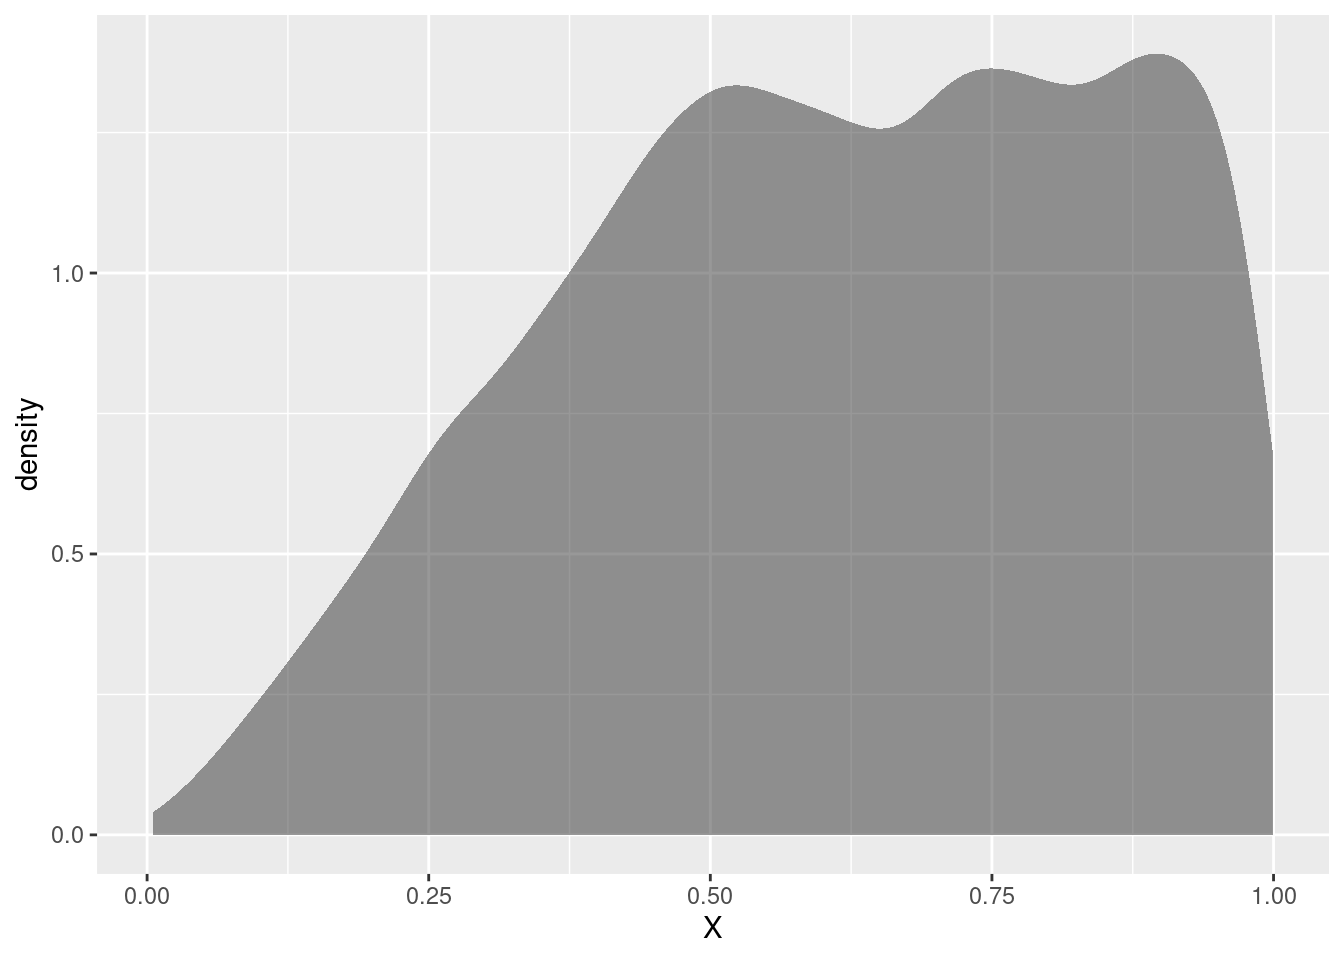
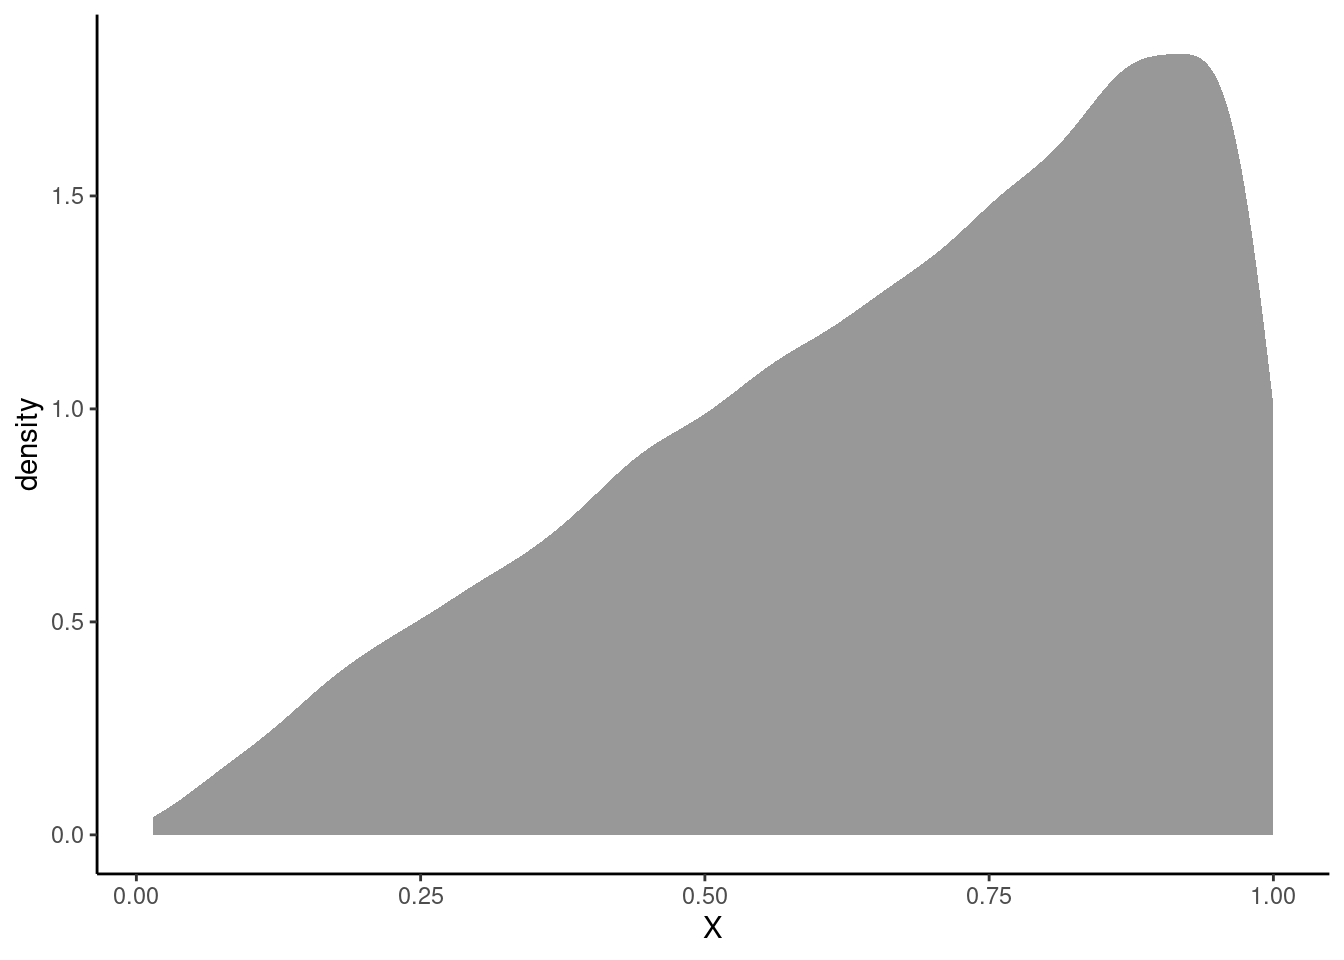
Fixed simulations for continuous RVs and transformations chapter by sampling once from (0,1) and once from (0,2), so that we get values up to the max of the pdf.

diff --git a/docs/Continuous-Random-Variables.html b/docs/Continuous-Random-Variables.html
@@ -641,7 +641,7 @@ Follow the signs
 <p>Like with discrete random variables, we can get an estimate of the pdf via simulation. However, simulating continuous random variables take a little more work.</p>
 <p>Let’s start by generating random samples from <span class="math inline">\(X\)</span>. We can do this using a method called rejection sampling. Rejection sampling involves generating candidate points from a proposal distribution (usually a uniform distribution, with values between 0 and 1) and accepting them with a certain probability that ensures the desired distribution. To determine the probability of rejection, we essentially check whether a second random number <span class="math inline">\(u\)</span> is less than or equal to a specific function value. For example, if we want values where <span class="math inline">\(y = 2x\)</span>, we’ll check whether <span class="math inline">\(u\leq 2x\)</span>. An alternative method for this simulation uses the inverse transform method, which requires deriving the cdf.<a href="#fn2" class="footnote-ref" id="fnref2" role="doc-noteref"><sup>2</sup></a> Because we have de-emphasized the cdf in this book, we’ll focus on the rejection sampling method.</p>
 <div class="cell">
-<div class="sourceCode cell-code" id="cb9"><pre class="sourceCode r code-with-copy"><code class="sourceCode r"><span id="cb9-1"><a href="#cb9-1" aria-hidden="true" tabindex="-1"></a><span class="fu">set.seed</span>(<span class="dv">1111</span>)</span>
+<div class="sourceCode cell-code" id="cb9"><pre class="sourceCode r code-with-copy"><code class="sourceCode r"><span id="cb9-1"><a href="#cb9-1" aria-hidden="true" tabindex="-1"></a><span class="fu">set.seed</span>(<span class="dv">809</span>)</span>
 <span id="cb9-2"><a href="#cb9-2" aria-hidden="true" tabindex="-1"></a></span>
 <span id="cb9-3"><a href="#cb9-3" aria-hidden="true" tabindex="-1"></a>num_sim <span class="ot">&lt;-</span> <span class="dv">10000</span></span>
 <span id="cb9-4"><a href="#cb9-4" aria-hidden="true" tabindex="-1"></a></span>
@@ -649,25 +649,29 @@ Follow the signs
 <span id="cb9-6"><a href="#cb9-6" aria-hidden="true" tabindex="-1"></a><span class="co">#   and uniform random numbers for acceptance</span></span>
 <span id="cb9-7"><a href="#cb9-7" aria-hidden="true" tabindex="-1"></a><span class="co"># generate more points than needed (10000*2) to ensure </span></span>
 <span id="cb9-8"><a href="#cb9-8" aria-hidden="true" tabindex="-1"></a><span class="co">#   enough accepted samples</span></span>
-<span id="cb9-9"><a href="#cb9-9" aria-hidden="true" tabindex="-1"></a>candidates <span class="ot">&lt;-</span> <span class="fu">runif</span>(num_sim<span class="sc">*</span><span class="dv">5</span>, <span class="dv">0</span>, <span class="dv">1</span>)</span>
-<span id="cb9-10"><a href="#cb9-10" aria-hidden="true" tabindex="-1"></a>u <span class="ot">&lt;-</span> <span class="fu">runif</span>(num_sim<span class="sc">*</span><span class="dv">5</span>, <span class="dv">0</span>, <span class="dv">1</span>)</span>
-<span id="cb9-11"><a href="#cb9-11" aria-hidden="true" tabindex="-1"></a></span>
-<span id="cb9-12"><a href="#cb9-12" aria-hidden="true" tabindex="-1"></a><span class="co"># create a tibble for candidates and acceptance probabilities</span></span>
-<span id="cb9-13"><a href="#cb9-13" aria-hidden="true" tabindex="-1"></a>df <span class="ot">&lt;-</span> <span class="fu">tibble</span>(<span class="at">candidate =</span> candidates, <span class="at">u =</span> u)</span>
+<span id="cb9-9"><a href="#cb9-9" aria-hidden="true" tabindex="-1"></a><span class="co"># We select a value on the range for x and then</span></span>
+<span id="cb9-10"><a href="#cb9-10" aria-hidden="true" tabindex="-1"></a><span class="co"># select another value from 0 to the max of the</span></span>
+<span id="cb9-11"><a href="#cb9-11" aria-hidden="true" tabindex="-1"></a><span class="co"># pdf </span></span>
+<span id="cb9-12"><a href="#cb9-12" aria-hidden="true" tabindex="-1"></a>candidates <span class="ot">&lt;-</span> <span class="fu">runif</span>(num_sim<span class="sc">*</span><span class="dv">2</span>)</span>
+<span id="cb9-13"><a href="#cb9-13" aria-hidden="true" tabindex="-1"></a>u <span class="ot">&lt;-</span> <span class="fu">runif</span>(num_sim<span class="sc">*</span><span class="dv">2</span>,<span class="at">max=</span><span class="dv">2</span>)</span>
 <span id="cb9-14"><a href="#cb9-14" aria-hidden="true" tabindex="-1"></a></span>
-<span id="cb9-15"><a href="#cb9-15" aria-hidden="true" tabindex="-1"></a><span class="co"># filter out accepted samples based on the acceptance criterion</span></span>
-<span id="cb9-16"><a href="#cb9-16" aria-hidden="true" tabindex="-1"></a>accepted_samples <span class="ot">&lt;-</span> df <span class="sc">%&gt;%</span> </span>
-<span id="cb9-17"><a href="#cb9-17" aria-hidden="true" tabindex="-1"></a>  <span class="fu">filter</span>(u <span class="sc">&lt;=</span> <span class="dv">2</span><span class="sc">*</span>candidate) <span class="sc">%&gt;%</span> </span>
-<span id="cb9-18"><a href="#cb9-18" aria-hidden="true" tabindex="-1"></a>  <span class="fu">slice_head</span>(<span class="at">n =</span> num_sim) <span class="sc">%&gt;%</span>   <span class="co"># ensure exactly n samples </span></span>
-<span id="cb9-19"><a href="#cb9-19" aria-hidden="true" tabindex="-1"></a>  <span class="fu">pull</span>(candidate)         <span class="co"># use only the accepted candidate values</span></span>
-<span id="cb9-20"><a href="#cb9-20" aria-hidden="true" tabindex="-1"></a></span>
-<span id="cb9-21"><a href="#cb9-21" aria-hidden="true" tabindex="-1"></a><span class="co"># Create a tibble for the accepted samples</span></span>
-<span id="cb9-22"><a href="#cb9-22" aria-hidden="true" tabindex="-1"></a>accepted <span class="ot">&lt;-</span> <span class="fu">tibble</span>(<span class="at">X =</span> accepted_samples)</span></code><button title="Copy to Clipboard" class="code-copy-button"><i class="bi"></i></button></pre></div>
+<span id="cb9-15"><a href="#cb9-15" aria-hidden="true" tabindex="-1"></a><span class="co"># create a tibble for candidates and acceptance probabilities</span></span>
+<span id="cb9-16"><a href="#cb9-16" aria-hidden="true" tabindex="-1"></a>df <span class="ot">&lt;-</span> <span class="fu">tibble</span>(<span class="at">candidate =</span> candidates, <span class="at">u =</span> u)</span>
+<span id="cb9-17"><a href="#cb9-17" aria-hidden="true" tabindex="-1"></a></span>
+<span id="cb9-18"><a href="#cb9-18" aria-hidden="true" tabindex="-1"></a><span class="co"># filter out accepted samples based on the acceptance criterion</span></span>
+<span id="cb9-19"><a href="#cb9-19" aria-hidden="true" tabindex="-1"></a>accepted_samples <span class="ot">&lt;-</span> df <span class="sc">%&gt;%</span> </span>
+<span id="cb9-20"><a href="#cb9-20" aria-hidden="true" tabindex="-1"></a>  <span class="fu">filter</span>(<span class="dv">2</span><span class="sc">*</span>candidate <span class="sc">&gt;=</span> u) <span class="sc">%&gt;%</span> </span>
+<span id="cb9-21"><a href="#cb9-21" aria-hidden="true" tabindex="-1"></a>  <span class="fu">slice_head</span>(<span class="at">n =</span> num_sim) <span class="sc">%&gt;%</span>   <span class="co"># ensure exactly n samples </span></span>
+<span id="cb9-22"><a href="#cb9-22" aria-hidden="true" tabindex="-1"></a>  <span class="fu">pull</span>(candidate)         <span class="co"># use only the accepted candidate values</span></span>
+<span id="cb9-23"><a href="#cb9-23" aria-hidden="true" tabindex="-1"></a></span>
+<span id="cb9-24"><a href="#cb9-24" aria-hidden="true" tabindex="-1"></a><span class="co"># Create a tibble for the accepted samples</span></span>
+<span id="cb9-25"><a href="#cb9-25" aria-hidden="true" tabindex="-1"></a>accepted <span class="ot">&lt;-</span> <span class="fu">tibble</span>(<span class="at">X =</span> accepted_samples)</span></code><button title="Copy to Clipboard" class="code-copy-button"><i class="bi"></i></button></pre></div>
 </div>
 <p>Now, we can plot the estimated pdf.</p>
 <div class="cell">
 <div class="sourceCode cell-code" id="cb10"><pre class="sourceCode r code-with-copy"><code class="sourceCode r"><span id="cb10-1"><a href="#cb10-1" aria-hidden="true" tabindex="-1"></a>accepted <span class="sc">%&gt;%</span> </span>
-<span id="cb10-2"><a href="#cb10-2" aria-hidden="true" tabindex="-1"></a>  <span class="fu">gf_density</span>(<span class="sc">~</span>X, <span class="at">bins =</span> <span class="dv">30</span>)</span></code><button title="Copy to Clipboard" class="code-copy-button"><i class="bi"></i></button></pre></div>
+<span id="cb10-2"><a href="#cb10-2" aria-hidden="true" tabindex="-1"></a>  <span class="fu">gf_density</span>(<span class="sc">~</span>X) <span class="sc">%&gt;%</span> </span>
+<span id="cb10-3"><a href="#cb10-3" aria-hidden="true" tabindex="-1"></a>  <span class="fu">gf_theme</span>(<span class="fu">theme_classic</span>())</span></code><button title="Copy to Clipboard" class="code-copy-button"><i class="bi"></i></button></pre></div>
 <div class="cell-output-display">
 <div>
 <figure class="figure">
@@ -686,14 +690,14 @@ Follow the signs
 <pre><code># A tibble: 1 × 3
   Prob1 Prob2 Prob3
   &lt;dbl&gt; &lt;dbl&gt; &lt;dbl&gt;
-1 0.332 0.668 0.647</code></pre>
+1 0.249 0.745 0.542</code></pre>
 </div>
 </div>
 <p>The median of <span class="math inline">\(X\)</span> is easily found by calculating the median of our simulated values.</p>
 <div class="cell">
 <div class="sourceCode cell-code" id="cb13"><pre class="sourceCode r code-with-copy"><code class="sourceCode r"><span id="cb13-1"><a href="#cb13-1" aria-hidden="true" tabindex="-1"></a><span class="fu">median</span>(<span class="sc">~</span>X, <span class="at">data =</span> accepted)</span></code><button title="Copy to Clipboard" class="code-copy-button"><i class="bi"></i></button></pre></div>
 <div class="cell-output cell-output-stdout">
-<pre><code>[1] 0.6274425</code></pre>
+<pre><code>[1] 0.7102987</code></pre>
 </div>
 </div>
 </section>
@@ -733,7 +737,7 @@ Consider the random variable <span class="math inline">\(X\)</span> from above. 
 <div class="cell">
 <div class="sourceCode cell-code" id="cb17"><pre class="sourceCode r code-with-copy"><code class="sourceCode r"><span id="cb17-1"><a href="#cb17-1" aria-hidden="true" tabindex="-1"></a><span class="fu">mean</span>(<span class="sc">~</span>X, <span class="at">data =</span> accepted)</span></code><button title="Copy to Clipboard" class="code-copy-button"><i class="bi"></i></button></pre></div>
 <div class="cell-output cell-output-stdout">
-<pre><code>[1] 0.6141736</code></pre>
+<pre><code>[1] 0.6678136</code></pre>
 </div>
 </div>
 <p><span class="math display">\[
@@ -750,7 +754,7 @@ Consider the random variable <span class="math inline">\(X\)</span> from above. 
 <div class="cell">
 <div class="sourceCode cell-code" id="cb21"><pre class="sourceCode r code-with-copy"><code class="sourceCode r"><span id="cb21-1"><a href="#cb21-1" aria-hidden="true" tabindex="-1"></a><span class="fu">var</span>(<span class="sc">~</span>X, <span class="at">data =</span> accepted)<span class="sc">*</span><span class="dv">9999</span><span class="sc">/</span><span class="dv">10000</span></span></code><button title="Copy to Clipboard" class="code-copy-button"><i class="bi"></i></button></pre></div>
 <div class="cell-output cell-output-stdout">
-<pre><code>[1] 0.05679209</code></pre>
+<pre><code>[1] 0.05645031</code></pre>
 </div>
 </div>
 <p>And finally, the standard deviation of <span class="math inline">\(X\)</span> is <span class="math inline">\(\sigma_X = \sqrt{\sigma^2_X}=\sqrt{1/18}=0.236\)</span>.</p>
